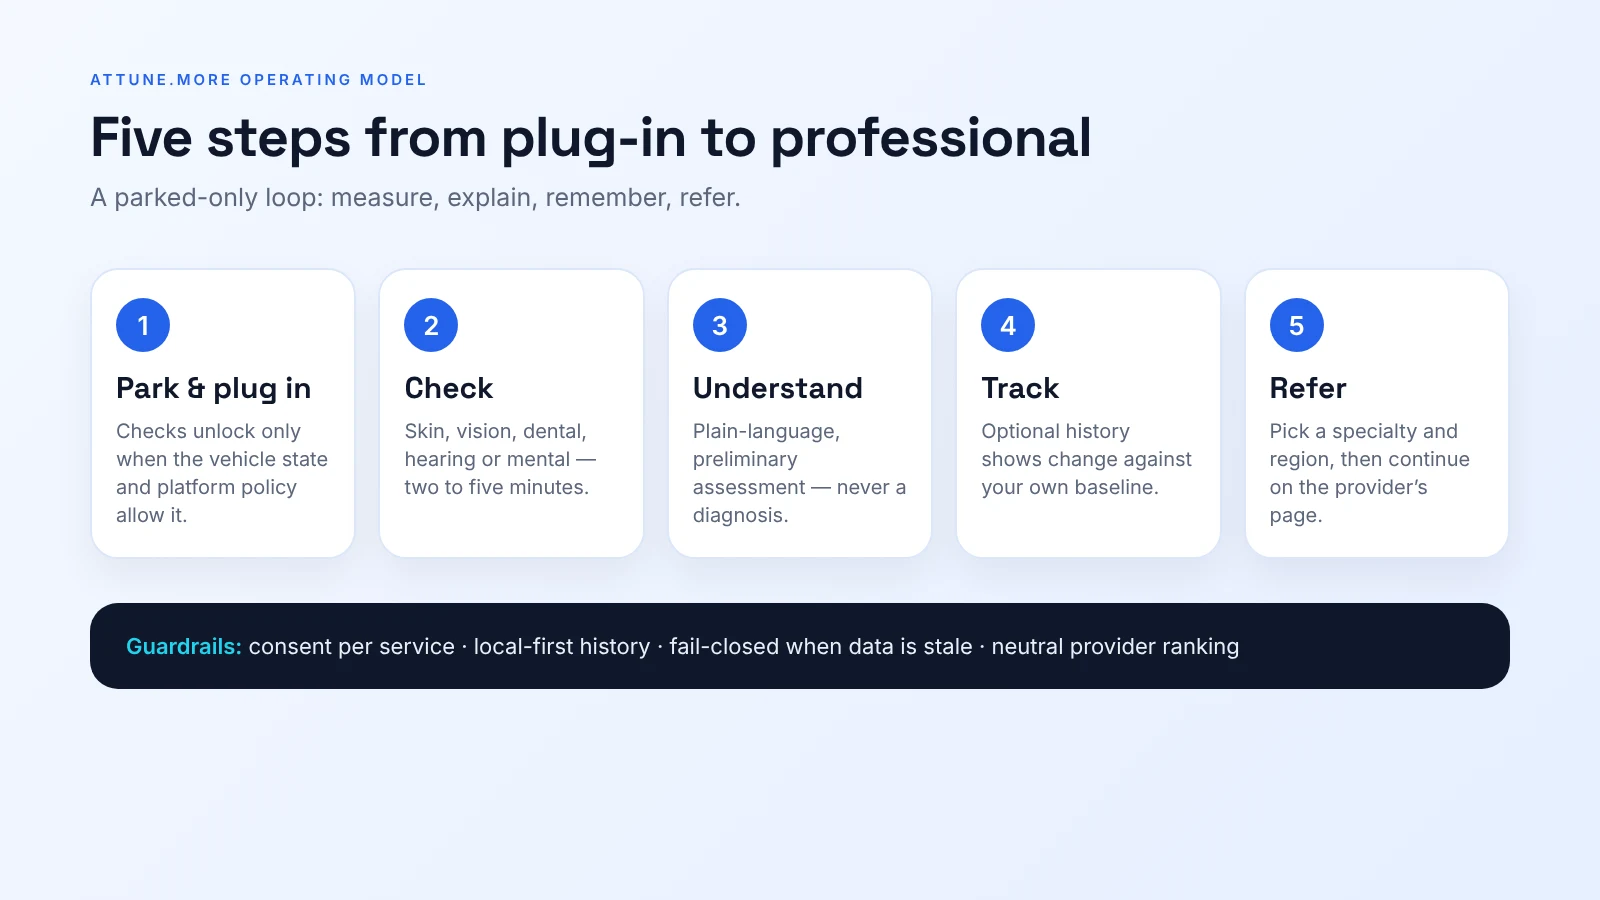
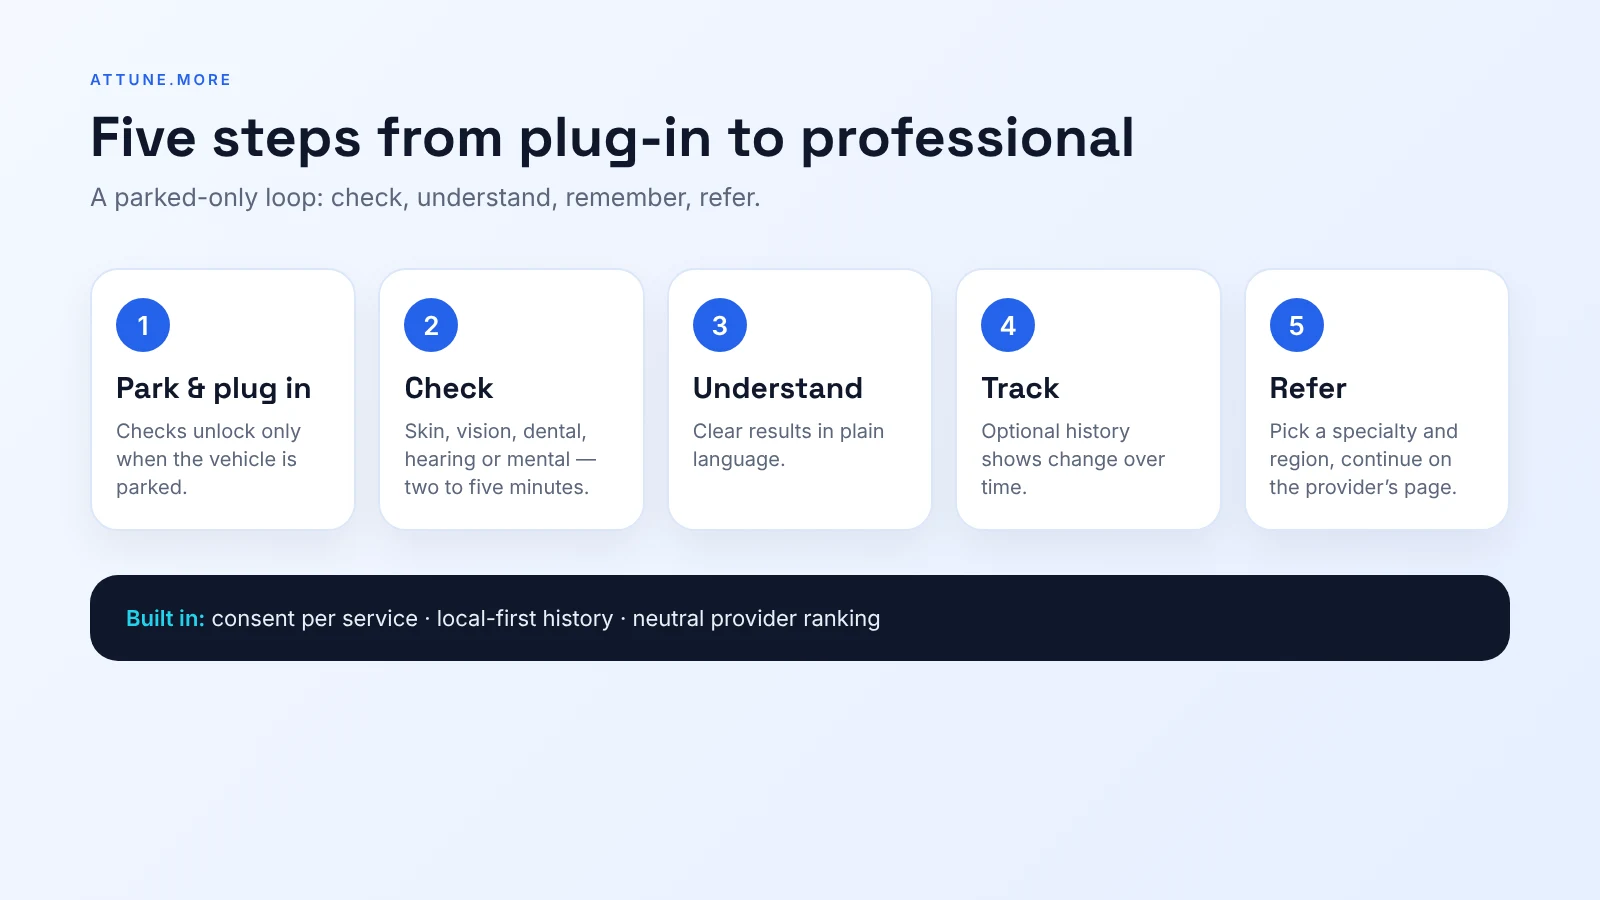
Attune.more blog v2: module deep-dives with YouTube popups, per-class charts, collapsible FAQ
- Rewrite article (EN/DE/TR): direct headings, five module sections with lifestyle photos and YouTube popups, skin/dental precision-recall-F1 charts, languages note, no financial content
- Collapsible FAQ for all blog articles
- Carousel: owner-supplied thumbnail, refreshed copy, seedVersion so seeded cards can be refreshed on deploy

Claude-Session: https://claude.ai/code/session_012WRdxHxYvVVBYxsP7Z38Ru

diff --git a/server/app.ts b/server/app.ts
@@ -230,7 +230,7 @@ export function createApp() {
     fs.writeFileSync(dataPath, `${JSON.stringify(payload, null, 2)}\n`, "utf8");
   };
   // Additive seed merge: carousel products in the seed that carry a `seedId` are added once to the
-  // live site content (tracked in `seededAiProductIds`). New cards ship with a deploy without
+  // live site content (tracked in `seededAiProductIds`); a higher `seedVersion` refreshes that card. New cards ship with a deploy without
   // overwriting content edited in /admin, and a card removed in /admin stays removed.
   const mergeSeedProducts = (content: any) => {
     try {
@@ -241,16 +241,26 @@ export function createApp() {
       if (!seedPath || !Array.isArray(content?.aiProducts)) return content;
       const seed = JSON.parse(fs.readFileSync(seedPath, "utf8"));
       const seeded: string[] = Array.isArray(content.seededAiProductIds) ? content.seededAiProductIds : [];
-      const toAdd = (Array.isArray(seed?.aiProducts) ? seed.aiProducts : []).filter(
-        (product: any) =>
-          product?.seedId &&
-          !seeded.includes(product.seedId) &&
-          !content.aiProducts.some((existing: any) => existing?.seedId === product.seedId),
-      );
-      if (!toAdd.length) return content;
+      const products: any[] = [...content.aiProducts];
+      const toAdd: any[] = [];
+      let changed = false;
+      for (const product of Array.isArray(seed?.aiProducts) ? seed.aiProducts : []) {
+        if (!product?.seedId) continue;
+        const index = products.findIndex((existing: any) => existing?.seedId === product.seedId);
+        if (index >= 0) {
+          // A higher seedVersion refreshes the seeded card's text and media.
+          if ((product.seedVersion || 0) > (products[index]?.seedVersion || 0)) {
+            products[index] = product;
+            changed = true;
+          }
+        } else if (!seeded.includes(product.seedId)) {
+          toAdd.push(product);
+        }
+      }
+      if (!toAdd.length && !changed) return content;
       const next = {
         ...content,
-        aiProducts: [...toAdd, ...content.aiProducts],
+        aiProducts: [...toAdd, ...products],
         seededAiProductIds: [...seeded, ...toAdd.map((product: any) => product.seedId)],
       };
       writeSiteContent(next);

diff --git a/client/src/components/blog/BlogContentSurface.tsx b/client/src/components/blog/BlogContentSurface.tsx
@@ -63,13 +63,16 @@ export function BlogContentSurface({
 
       {post.faq[language]?.length ? (
         <section className="mt-12 rounded-[1.75rem] border border-[#dce7f9] bg-white p-6">
-          <h2 className="font-['Space_Grotesk'] text-3xl font-bold">FAQ</h2>
-          <div className="mt-5 grid gap-5">
-            {post.faq[language].map((item) => (
-              <div key={item.question}>
-                <h3 className="font-['Space_Grotesk'] text-xl font-bold">{item.question}</h3>
-                <p className="mt-2 leading-7 text-[#5b667b]">{item.answer}</p>
-              </div>
+          <h2 className="font-['Space_Grotesk'] text-3xl font-bold">{language === "tr" ? "Sık Sorulan Sorular" : language === "de" ? "Häufige Fragen" : "FAQ"}</h2>
+          <div className="mt-5 divide-y divide-[#e6eefc]">
+            {post.faq[language].map((item, index) => (
+              <details key={item.question} className="group py-4" open={index === 0}>
+                <summary className="flex cursor-pointer list-none items-center justify-between gap-4 font-['Space_Grotesk'] text-xl font-bold text-[#0f172a] [&::-webkit-details-marker]:hidden">
+                  <span>{item.question}</span>
+                  <span aria-hidden="true" className="shrink-0 text-2xl font-normal text-[#2563eb] transition-transform duration-200 group-open:rotate-45">+</span>
+                </summary>
+                <p className="mt-3 leading-7 text-[#5b667b]">{item.answer}</p>
+              </details>
             ))}
           </div>
         </section>

diff --git a/client/src/content/homeLocalizationContent.ts b/client/src/content/homeLocalizationContent.ts
@@ -90,7 +90,7 @@ const deProducts: Record<string, Partial<ProductItem>> = {
     summary:
       "Fünf Gesundheits-Check-ins nur im Stand für das Fahrzeugdisplay — Haut, Sehen, Zähne, Gehör und Mental —, die Ladezeit in Fürsorgezeit verwandeln.",
     outcome:
-      "Für Android Automotive entwickelt: Einwilligung je Dienst, ein fail-closed Park-Gate, optionale Verlaufsverfolgung und der Weg zur passenden Fachperson. Vorläufige Einschätzung, nie eine Diagnose.",
+      "Für Android Automotive entwickelt: Einwilligung je Dienst, ein fail-closed Park-Gate, optionale Verlaufsverfolgung und der Weg zur passenden Fachperson.",
     tags: ["Android Automotive", "Computer Vision", "Voice AI", "Digitale Gesundheit"],
   },
   "GEO & SEO Optimizer": {
@@ -272,7 +272,7 @@ const trProducts: Record<string, Partial<ProductItem>> = {
     summary:
       "Araç ekranı için park halinde beş sağlık kontrolü — cilt, görme, diş, işitme ve ruh sağlığı — şarj süresini bakım süresine dönüştürür.",
     outcome:
-      "Android Automotive için geliştirildi: hizmet başına rıza, güvenli-kapalı park kapısı, isteğe bağlı değişim takibi ve doğru uzmana giden yol. Ön değerlendirme, asla teşhis değil.",
+      "Android Automotive için geliştirildi: hizmet başına rıza, güvenli-kapalı park kapısı, isteğe bağlı değişim takibi ve doğru uzmana giden yol.",
     tags: ["Android Automotive", "Bilgisayarlı görü", "Ses yapay zekâsı", "Dijital sağlık"],
   },
   "GEO & SEO Optimizer": {

diff --git a/client/src/lib/siteContent.ts b/client/src/lib/siteContent.ts
@@ -417,6 +417,7 @@ export const careerTimeline = [
 export const aiProducts = [
   {
     seedId: "attune-more-aaos-health-checks",
+    seedVersion: 2,
     title: "Attune.more",
     category: "Android Automotive · Preventive Health",
     image: "/assets/apps/images/attune-more.webp",
@@ -426,7 +427,7 @@ export const aiProducts = [
     summary:
       "Five parked-only health check-ins for the car screen — skin, vision, dental, hearing and mental — that turn charging time into care time.",
     outcome:
-      "Built for Android Automotive: consent per service, a fail-closed parking gate, optional change tracking and a path to the right professional. Preliminary assessment, never a diagnosis.",
+      "Built for Android Automotive: consent per service, a fail-closed parking gate, optional change tracking and a path to the right professional.",
     tags: ["Android Automotive", "Computer vision", "Voice AI", "Digital health"],
     confidential: false,
   },
